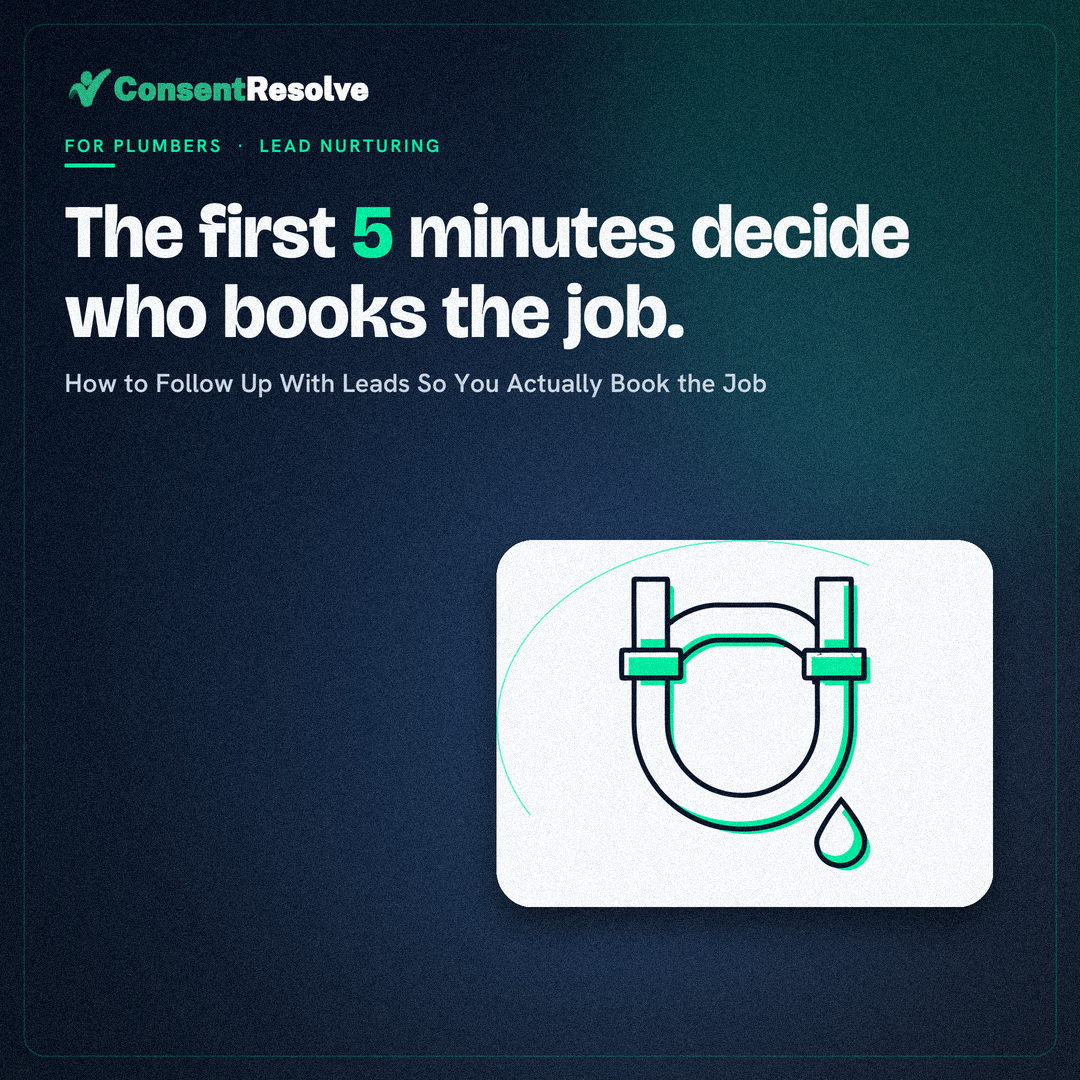
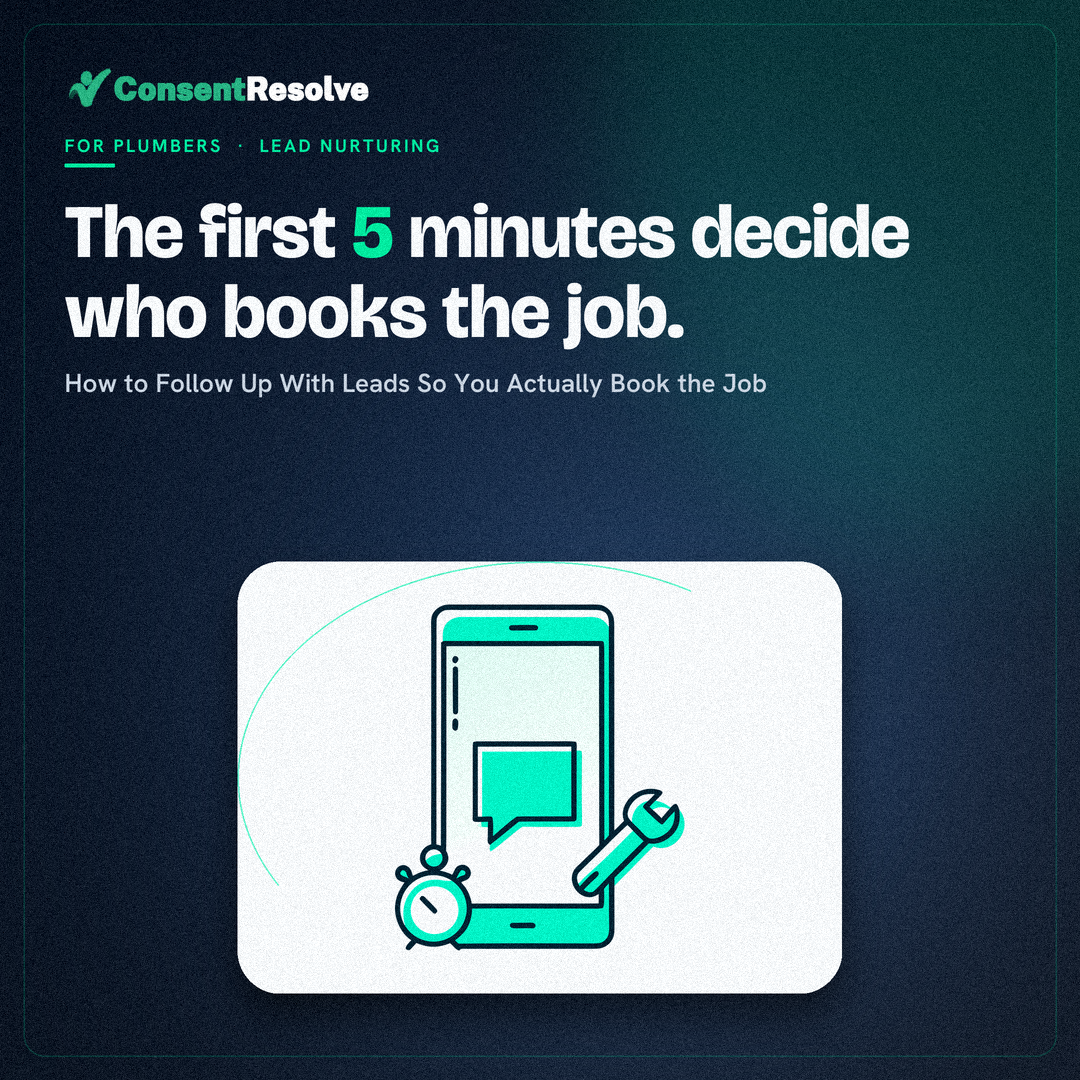
Image gen: content+trade-themed illustration (Recraft brand-style via qlmanage) + center the square illustration; refresh plumber previews

Changed region(s): [[0.2139, 0.4889, 0.9167, 0.9472]]

diff --git a/scripts/generate-resource-images.py b/scripts/generate-resource-images.py
@@ -531,6 +531,77 @@ def finalize(card, variant):
     return apply_grain(card, 0.03)
 
 
+# Recraft custom Brand Style (the exact style the website illustrations use).
+BRAND_STYLE_ID = "214dccd1-dca3-43e6-b005-c664e1b33338"
+
+# Per-article content motif (the topic of the piece), combined with the trade
+# tool so the illustration is BOTH service-pro themed AND about the content.
+CONTENT_SUBJECTS = {
+    "follow-up-with-leads": "a smartphone showing an incoming chat message bubble with a small alarm clock beside it, signalling a fast reply",
+    "stop-losing-jobs-missed-calls": "a ringing smartphone with a missed-call badge turning into a chat reply bubble",
+    "get-more-leads-from-website-traffic": "a browser window with an upward arrow and a contact card dropping out of a funnel",
+    "rank-google-map-pack-home-services": "a map pin on a small street grid with a ranking podium of three bars",
+    "win-google-local-service-ads": "a verification shield badge with a checkmark above a search bar",
+    "quote-and-close-more-jobs": "three price-option cards with a handshake above the tallest",
+    "get-more-google-reviews": "a row of five stars beside a chat bubble",
+    "market-to-neighbors-after-every-job": "a row of houses with a postcard mailer flying between them",
+    "track-where-leads-come-from": "branching source arrows converging into a dollar-sign circle",
+    "identify-anonymous-website-visitors": "a faceless visitor silhouette resolving into a labelled contact card with a consent checkmark",
+}
+TRADE_TOOL = {
+    "plumber": "a plumber's pipe wrench", "roofing": "a roofing hammer and a shingle",
+    "hvac": "an HVAC thermostat dial", "electrician": "an electrician's pliers and a lightning bolt",
+}
+
+
+def fetch_content_art(slug, trade):
+    """Generate a service-pro + content-themed illustration in the website's
+    Brand Style (Recraft style_id) and rasterize it via Quick Look. Returns PIL
+    RGBA, or None if no content motif is defined for this slug."""
+    motif = CONTENT_SUBJECTS.get(slug)
+    if not motif:
+        return None
+    CACHE.mkdir(parents=True, exist_ok=True)
+    png_cache = CACHE / f"content-{slug}-{trade}.png"
+    if png_cache.exists():
+        return Image.open(png_cache).convert("RGBA")
+    svg_cache = CACHE / f"content-{slug}-{trade}.svg"
+    if not svg_cache.exists():
+        tool = TRADE_TOOL.get(trade, "a service technician's tool")
+        subject = f"{motif}, together with {tool}, representing a fast service-pro response to a new customer lead"
+        prompt = f"Subject: {subject}, arranged center-frame.\n\n{SITE_STYLE_BASE}"
+        body = {"prompt": prompt, "model": "recraftv3", "style_id": BRAND_STYLE_ID,
+                "size": "1024x1024", "n": 1, "response_format": "url"}
+        req = urllib.request.Request(
+            "https://external.api.recraft.ai/v1/images/generations",
+            data=json.dumps(body).encode("utf-8"), method="POST",
+            headers={"Content-Type": "application/json", "Authorization": f"Bearer {load_key()}"})
+        print(f"  recraft content → {slug}/{trade} ...", end=" ", flush=True)
+        try:
+            with urllib.request.urlopen(req, timeout=300) as resp:
+                payload = json.loads(resp.read().decode("utf-8"))
+        except urllib.error.HTTPError as e:
+            print("FAILED", e.read().decode("utf-8", "replace")[:200])
+            return None
+        url = payload["data"][0]["url"]
+        dl = urllib.request.Request(url, headers={"User-Agent": "consentresolve-img/1.0"})
+        with urllib.request.urlopen(dl, timeout=120) as r:
+            svg_cache.write_bytes(r.read())
+        print("ok")
+    # rasterize via Quick Look
+    tmp = CACHE / "_ql"
+    tmp.mkdir(parents=True, exist_ok=True)
+    for f in glob.glob(str(tmp / "*.png")):
+        os.remove(f)
+    subprocess.run(["qlmanage", "-t", "-s", "2048", "-o", str(tmp), str(svg_cache)], capture_output=True)
+    pngs = glob.glob(str(tmp / "*.png"))
+    if not pngs:
+        return None
+    img = Image.open(pngs[0]).convert("RGBA")
+    img.save(png_cache)
+    return img
+
+
 def compose(variant, fm, art, trade_label="", art_mode="ink", ss=1):
     w, h, layout, logo_variant, logo_h_base, logo_pos, margin_base = VARIANTS[variant]
     w, h = w * ss, h * ss
@@ -578,9 +649,11 @@ def compose(variant, fm, art, trade_label="", art_mode="ink", ss=1):
         place_logo(card, logo_variant, logo_h, "tl", margin)
         # subtle art lower-right
         if layout == "square":
-            place_art(card, art, (int(w * 0.46), int(h * 0.50), int(w * 0.46), int(h * 0.34)), art_mode)
+            cw_, ch_ = int(w * 0.56), int(h * 0.40)
+            place_art(card, art, ((w - cw_) // 2, int(h * 0.52), cw_, ch_), art_mode)
         else:
-            place_art(card, art, (int(w * 0.40), int(h * 0.40), int(w * 0.52), int(h * 0.30)), art_mode)
+            cw_, ch_ = int(w * 0.60), int(h * 0.32)
+            place_art(card, art, ((w - cw_) // 2, int(h * 0.40), cw_, ch_), art_mode)
         tx = margin
         ey = margin + logo_h + int(26 * scale)
         text_w = w - 2 * margin
@@ -645,12 +718,14 @@ def main():
             out_dir = ROOT / "public" / "images" / "resources" / seg
         out_dir.mkdir(parents=True, exist_ok=True)
         if args.site_style and args.trade:
-            # Closest match: the ACTUAL site trade SVG, rasterized + knocked out.
-            real = real_trade_art(args.trade)
-            if real is not None:
-                art = trim_knockout(real)
+            # Prefer a service-pro + content-themed illustration in the brand
+            # style; fall back to the generic trade SVG, then to a regen.
+            content = fetch_content_art(slug, args.trade)
+            if content is not None:
+                art = trim_knockout(content)
             else:
-                art = brand_snap(Image.open(fetch_trade_bg(args.trade, site=True)))
+                real = real_trade_art(args.trade)
+                art = trim_knockout(real) if real is not None else brand_snap(Image.open(fetch_trade_bg(args.trade, site=True)))
         elif args.trade:
             art = render_ink(Image.open(fetch_trade_bg(args.trade)))
         elif art_mode == "card":
